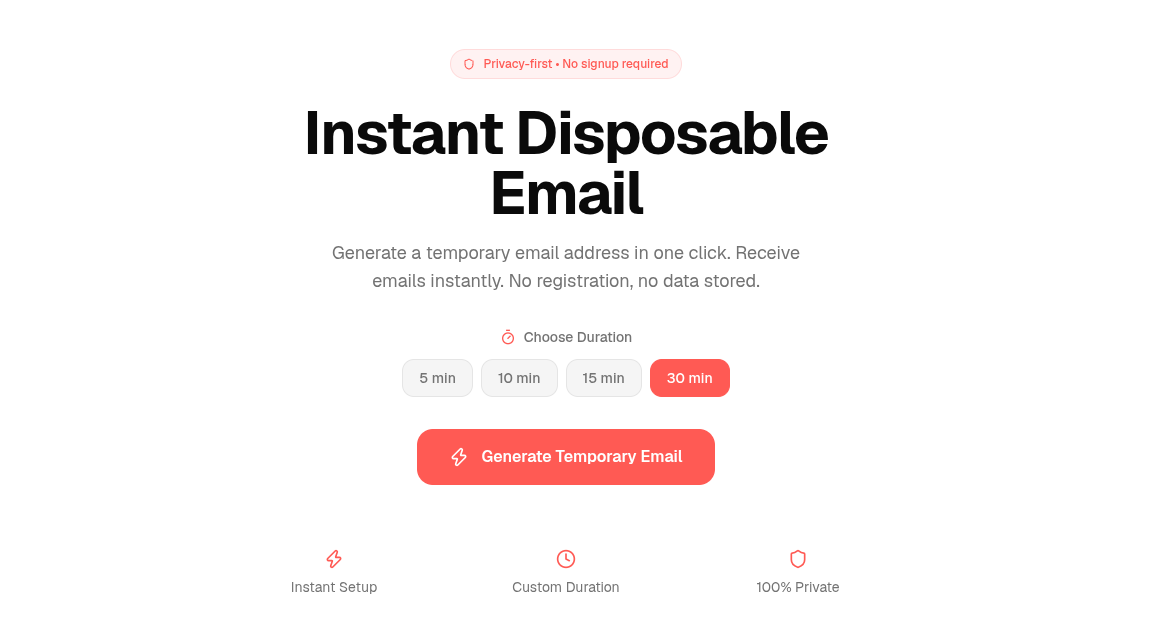
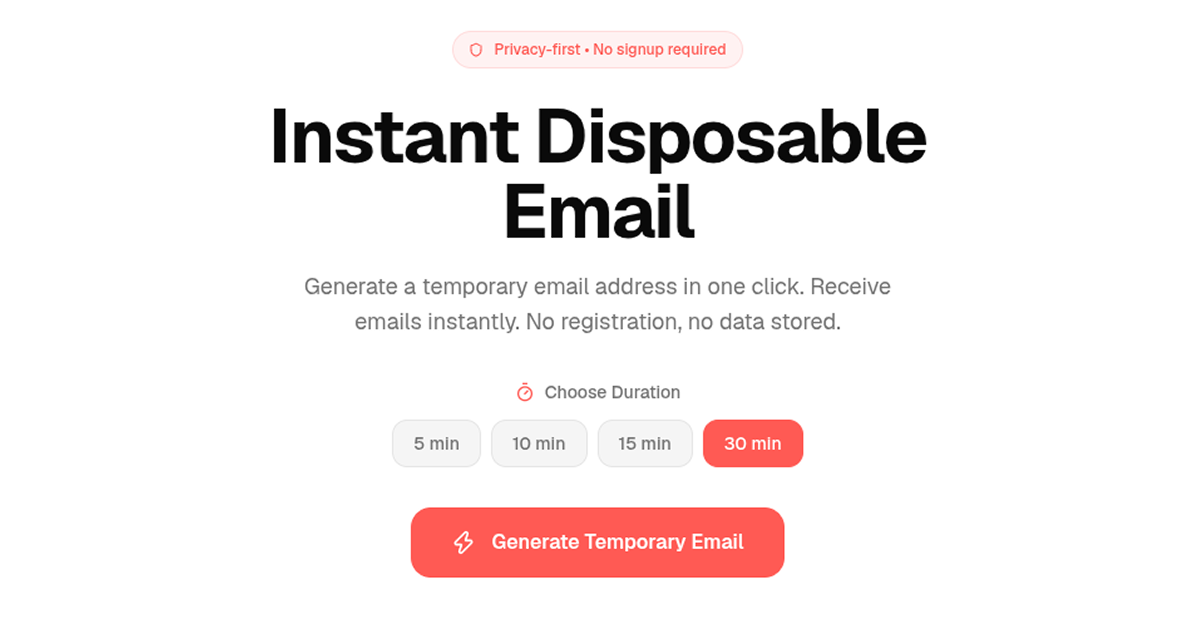
Refactor StaticLanding and TempMailApp components for improved user experience
- Implemented Suspense in `page.tsx` to enhance loading states with a fallback UI.
- Updated `StaticLanding` to display a message when the email session has expired.
- Removed the `ExpiredSection` component and adjusted `TempMailApp` to handle session expiry and cancellation more effectively.
- Deferred execution of state updates in `ActiveSession` and `ThemeToggle` to prevent synchronous setState issues.

diff --git a/src/components/temp-mail-app.tsx b/src/components/temp-mail-app.tsx
@@ -7,10 +7,9 @@ import { DURATION_OPTIONS } from "@/lib/mail-api";
 import { Header } from "@/components/header";
 import { LandingSection } from "@/components/landing-section";
 import { ActiveSession } from "@/components/active-session";
-import { ExpiredSection } from "@/components/expired-section";
 import { Loader2 } from "lucide-react";
 
-type AppState = "landing" | "active" | "expired";
+type AppState = "landing" | "active";
 
 const STORAGE_KEY = "tempmail_session";
 
@@ -72,9 +71,7 @@ export function TempMailApp() {
             setIsRestoring(false);
             return;
           } else {
-            // Either expired or user explicitly requested a new mailbox
             localStorage.removeItem(STORAGE_KEY);
-            // Clean up the old session on the server
             await fetch("/api/cleanup", {
               method: "POST",
               headers: { "Content-Type": "application/json" },
@@ -103,7 +100,7 @@ export function TempMailApp() {
           setSelectedDuration(initialDuration);
           await generateEmail(initialDuration);
 
-          // Clear the "new=true" parameter from URL so reload restores the new session
+          // Clear parameters from URL
           if (shouldBypass) {
             const params = new URLSearchParams(searchParams.toString());
             params.delete("new");
@@ -121,10 +118,10 @@ export function TempMailApp() {
     initSession();
   }, [searchParams, generateEmail, router]);
 
-  // Handle session expiry
+  // Handle session expiry — automatically redirect to home page
   const handleExpire = useCallback(async () => {
-    setAppState("expired");
     localStorage.removeItem(STORAGE_KEY);
+    router.push("/?expired=true");
 
     if (session) {
       try {
@@ -140,12 +137,12 @@ export function TempMailApp() {
         // best effort cleanup
       }
     }
-  }, [session]);
+  }, [session, router]);
 
-  // Cancel/Delete session manually
+  // Cancel/Delete session manually — redirect to home page
   const handleCancel = useCallback(async () => {
-    setAppState("landing");
     localStorage.removeItem(STORAGE_KEY);
+    router.push("/");
 
     if (session) {
       try {
@@ -162,9 +159,9 @@ export function TempMailApp() {
       }
     }
     setSession(null);
-  }, [session]);
+  }, [session, router]);
 
-  // Reset/Logo click handler - redirect to static homepage
+  // Reset/Logo click handler
   const handleLogoClick = useCallback(() => {
     if (appState === "active") {
       if (confirm("Return to home? This will keep your active mailbox running in the background.")) {
@@ -174,12 +171,6 @@ export function TempMailApp() {
       router.push("/");
     }
   }, [appState, router]);
-
-  // Regenerate from expired state
-  const handleRegenerate = useCallback(() => {
-    setAppState("landing");
-    generateEmail();
-  }, [generateEmail]);
 
   if (isRestoring || (appState === "landing" && isGenerating && !session)) {
     return (
@@ -203,19 +194,6 @@ export function TempMailApp() {
           onGenerate={generateEmail}
           isGenerating={isGenerating}
           error={error}
-        />
-      </>
-    );
-  }
-
-  // ── EXPIRED ──
-  if (appState === "expired") {
-    return (
-      <>
-        <Header onLogoClick={handleLogoClick} />
-        <ExpiredSection
-          onRegenerate={handleRegenerate}
-          isGenerating={isGenerating}
         />
       </>
     );

diff --git a/src/components/static-landing.tsx b/src/components/static-landing.tsx
@@ -1,8 +1,8 @@
 "use client";
 
 import { useState } from "react";
-import { useRouter } from "next/navigation";
-import { Shield, Zap, Clock, Timer } from "lucide-react";
+import { useRouter, useSearchParams } from "next/navigation";
+import { Shield, Zap, Clock, Timer, AlertCircle } from "lucide-react";
 import { DURATION_OPTIONS } from "@/lib/mail-api";
 import type { DurationMinutes } from "@/lib/mail-api";
 import { GenerateButton } from "@/components/generate-button";
@@ -11,6 +11,9 @@ export function StaticLanding() {
   const [selectedDuration, setSelectedDuration] = useState<DurationMinutes>(5);
   const [isRedirecting, setIsRedirecting] = useState(false);
   const router = useRouter();
+  const searchParams = useSearchParams();
+
+  const isExpired = searchParams.get("expired") === "true";
 
   const handleGenerate = () => {
     setIsRedirecting(true);
@@ -20,10 +23,17 @@ export function StaticLanding() {
   return (
     <main className="flex-1 flex flex-col items-center justify-center px-4 py-12">
       <div className="max-w-2xl w-full text-center animate-fade-in">
-        <div className="inline-flex items-center gap-2 px-3 py-1.5 rounded-full bg-accent-muted border border-accent-border text-accent text-xs font-medium mb-6">
-          <Shield className="w-3 h-3" />
-          Privacy-first • No signup required
-        </div>
+        {isExpired ? (
+          <div className="inline-flex items-center gap-2 px-4 py-2.5 rounded-2xl bg-danger/10 border border-danger/20 text-danger text-sm font-medium mb-6">
+            <AlertCircle className="w-4 h-4 shrink-0" />
+            <span>Your email session expired. Generate a new mailbox below.</span>
+          </div>
+        ) : (
+          <div className="inline-flex items-center gap-2 px-3 py-1.5 rounded-full bg-accent-muted border border-accent-border text-accent text-xs font-medium mb-6">
+            <Shield className="w-3 h-3" />
+            Privacy-first • No signup required
+          </div>
+        )}
 
         <h1 className="text-4xl sm:text-5xl md:text-6xl font-bold tracking-tight mb-4 text-foreground">
           Instant Disposable Email

diff --git a/src/app/page.tsx b/src/app/page.tsx
@@ -1,12 +1,24 @@
+import { Suspense } from "react";
 import { Header } from "@/components/header";
 import { StaticLanding } from "@/components/static-landing";
 import { Footer } from "@/components/footer";
+import { Loader2 } from "lucide-react";
+
+function StaticLandingFallback() {
+  return (
+    <div className="flex-1 flex flex-col items-center justify-center bg-background">
+      <Loader2 className="w-8 h-8 text-accent animate-spin" />
+    </div>
+  );
+}
 
 export default function Home() {
   return (
     <div className="min-h-screen flex flex-col bg-background">
       <Header />
-      <StaticLanding />
+      <Suspense fallback={<StaticLandingFallback />}>
+        <StaticLanding />
+      </Suspense>
       <Footer />
     </div>
   );

diff --git a/src/components/theme-toggle.tsx b/src/components/theme-toggle.tsx
@@ -8,8 +8,12 @@ export function ThemeToggle() {
   const [mounted, setMounted] = useState(false);
 
   useEffect(() => {
-    setMounted(true);
-    setIsDark(document.documentElement.classList.contains("dark"));
+    // Defer the execution to the next frame to avoid synchronous setState inside render loop
+    const frame = requestAnimationFrame(() => {
+      setMounted(true);
+      setIsDark(document.documentElement.classList.contains("dark"));
+    });
+    return () => cancelAnimationFrame(frame);
   }, []);
 
   const toggle = () => {

diff --git a/src/components/active-session.tsx b/src/components/active-session.tsx
@@ -61,7 +61,11 @@ export function ActiveSession({
 
   // Poll every 10 seconds
   useEffect(() => {
-    fetchMessages();
+    // Defer the initial execution to a microtask to prevent synchronous setState inside the effect body
+    Promise.resolve().then(() => {
+      fetchMessages();
+    });
+
     pollingRef.current = setInterval(fetchMessages, 10000);
 
     return () => {
